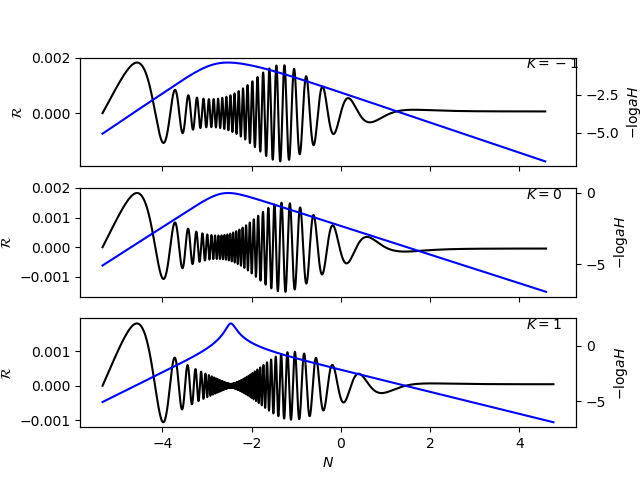
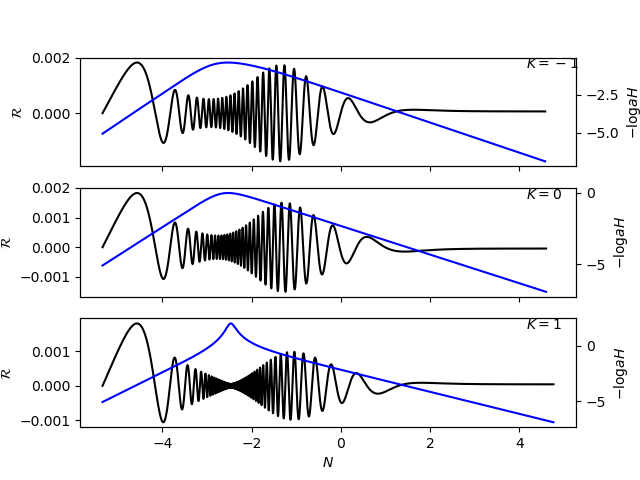
Updated Figures

Changed region(s): [[0.4062, 0.7188, 0.6875, 0.875], [0.7812, 0.7812, 0.8125, 0.8125]]

diff --git a/README.rst b/README.rst
@@ -94,24 +94,25 @@ Plot mode function evolution
         V = ChaoticPotential(m)
         k = 100
         equations = Equations(K, V, k)
-    
+
         events= [
                 Inflation(equations),                    # Record inflation entry and exit
                 Collapse(equations, terminal=True),      # Stop if universe stops expanding
-                ModeExit(equations, -1, terminal=True, value=1e-1)   # Stop on mode exit
+                ModeExit(equations, +1, terminal=True, value=1e1*k)   # Stop on mode exit
                 ]
 
-    
+
         N_p = -1.5
         phi_p = 23
         t_p = 1e-5
         ic = KD_initial_conditions(t_p, N_p, phi_p)
         t = numpy.logspace(-5,10,1e6)
-    
+
         sol = solve(equations, ic, t_eval=t, events=events)
-    
-        ax.plot(sol.N,sol.R1, 'k-')
-        ax2.plot(sol.N,-numpy.log(sol.H*numpy.exp(sol.N)), 'b-')
+
+        N = sol.N(t)
+        ax.plot(N,sol.R1(t), 'k-')
+        ax2.plot(N,-numpy.log(sol.H(t))-N, 'b-')
 
         ax.set_ylabel('$\mathcal{R}$')
         ax2.set_ylabel('$-\log aH$')
@@ -119,6 +120,7 @@ Plot mode function evolution
         ax.text(0.9, 0.9, r'$K=%i$' % K, transform=ax.transAxes)
 
     axes[-1].set_xlabel('$N$')
+
 
 |image1|
 
